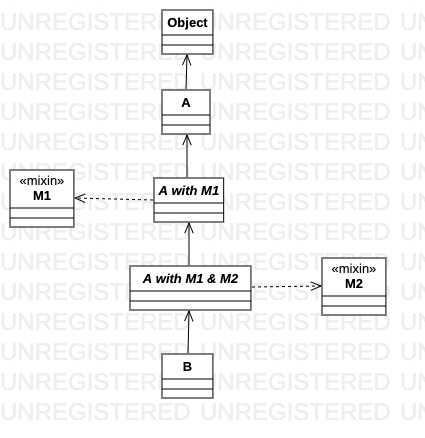
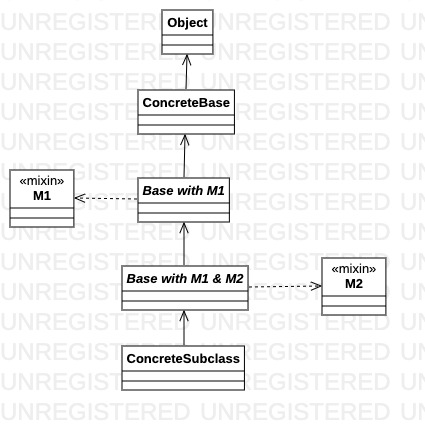
Update diagram and README.md

Changed region(s): [[0.0306, 0.1814, 0.6424, 0.907], [0.7035, 0.5744, 0.9176, 0.7558], [0.3976, 0.0302, 0.4894, 0.1512]]

diff --git a/README.md b/README.md
@@ -1,6 +1,6 @@
 # JavaScript Mixins
 
-This project showcases the mixin design pattern using JavaScript. [@naveenk2k](https://github.com/naveenk2k) and I made this for [PESU](http://pes.edu/)'s UE18CS341 (Design Patterns) course.
+This project showcases the mixin design pattern using JavaScript. [@naveenk2k](https://github.com/naveenk2k) and I ([@neelkamth](https://github.com/neelkamath)) made this for [PESU](http://pes.edu/)'s UE18CS341 (Design Patterns) course.
 
 ![Diagram](diagram.jpg)
 
@@ -13,5 +13,5 @@ Clone the repo using one of the following methods:
 ## Usage
 
 - Open `object-assign.html` in a browser to see the UI demo which uses the `Object.assign()` technique to implement mixins.
-- Open `multiple-inheritance.html` in a browser to see the printers demo which uses multiple inheritance to implement mixins.
-- Open `person.html` in a browser to see the person demo which uses multiple inheritance to implement mixins.
+- Open `multiple-inheritance.html` in a browser to see the printers demo which uses mixins to implement multiple inheritance.
+- Open `person.html` in a browser to see another example that makes use of mixins.
